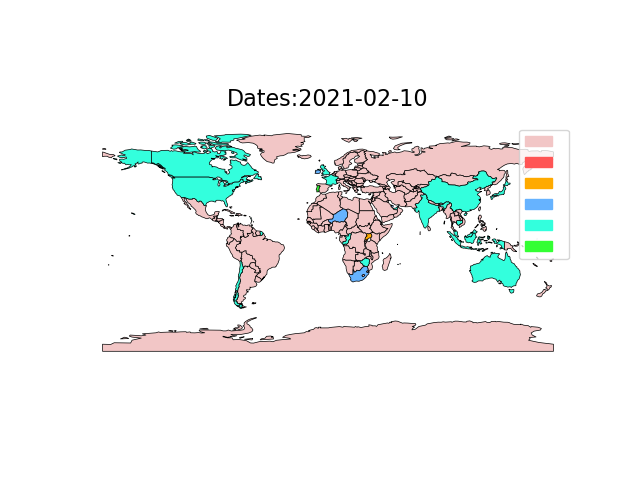
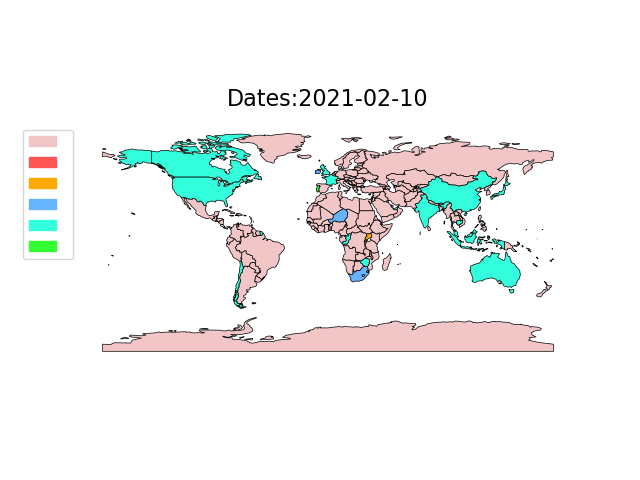
change the legend for plot

Changed region(s): [[0.8125, 0.2812, 0.875, 0.5312], [0.0312, 0.2812, 0.0938, 0.5312]]

diff --git a/HEATMAP_processing/heat_map.py b/HEATMAP_processing/heat_map.py
@@ -138,7 +138,7 @@ def plotWorldWithScores(merged_world):
     pop_f = mpatches.Patch(color='#33ff33')
     plt.axis('off')
 
-    plt.legend(handles=[pop_a,pop_b,pop_c,pop_d,pop_e, pop_f])
+    plt.legend(handles=[pop_a,pop_b,pop_c,pop_d,pop_e, pop_f], bbox_to_anchor=(0, 1))
     return ax
     #ax.legend = (['#ff5555','#ffaa00','#66b3ff','#33ffdd','#33ff33'])
 def generateGif(dir_path="img", gif_save_path="1.gif"):
@@ -157,7 +157,7 @@ def generateGif(dir_path="img", gif_save_path="1.gif"):
 
 
 if __name__=="__main__":
-    #main(world_path=r"country.shp", vaccine_file_path="vaccination_all_tweets.csv", sentiment_score_file_path="tweet_sentiment_all_001.csv")
+    main(world_path=r"country.shp", vaccine_file_path="vaccination_all_tweets.csv", sentiment_score_file_path="tweet_sentiment_all_001.csv")
     generateGif()
 
 
